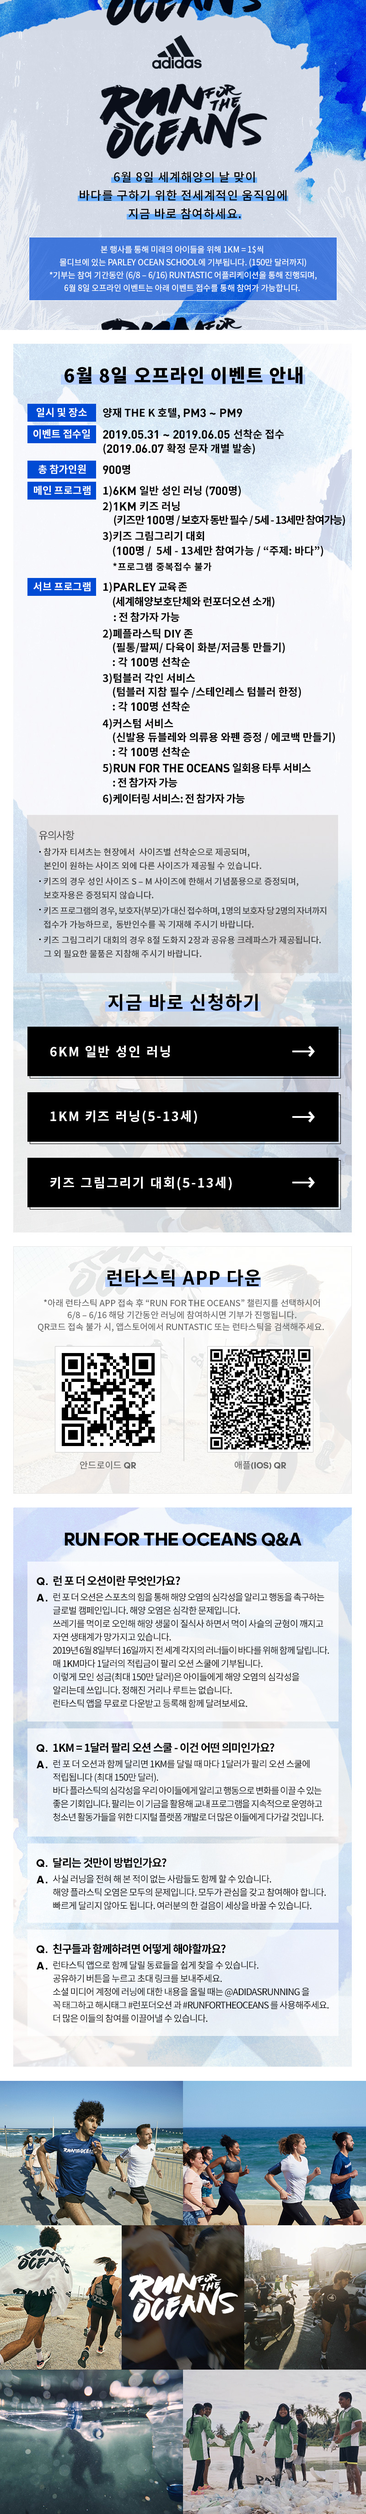
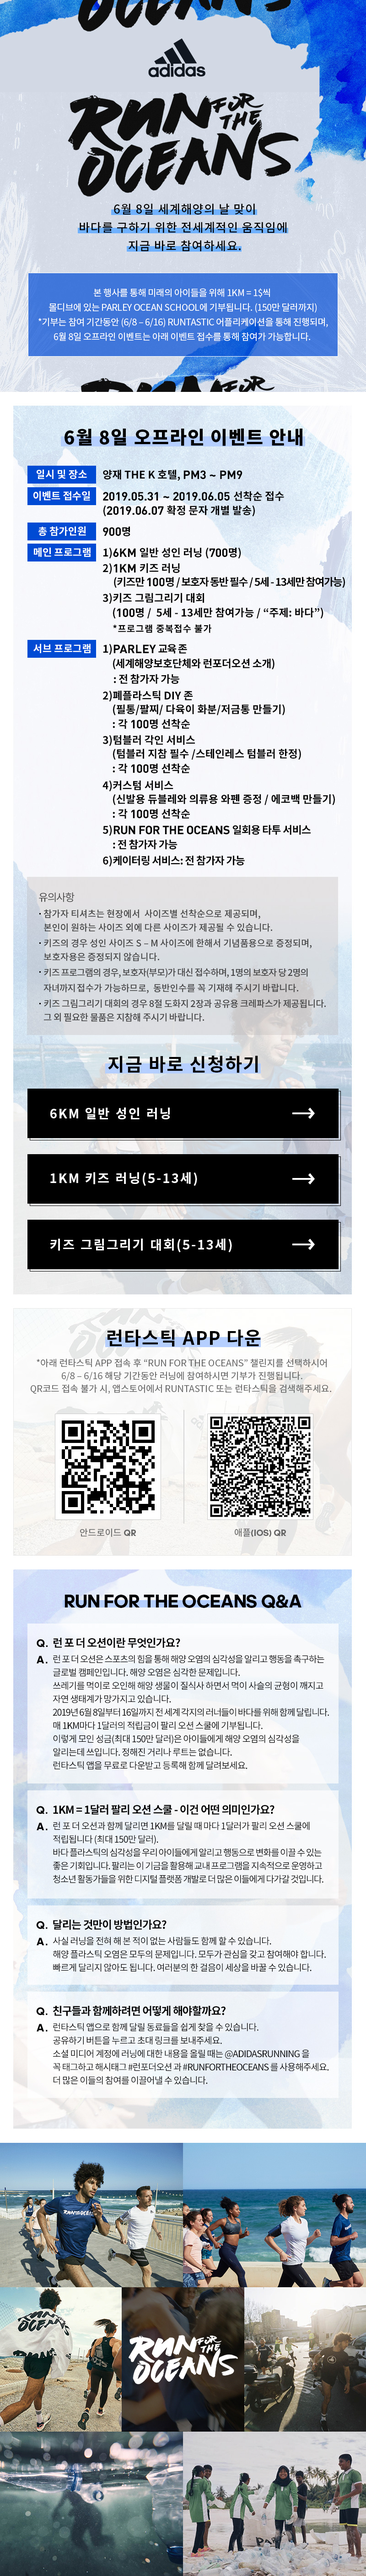
adi_evt_런포더오션

diff --git a/mobile/html/adidas/campaign/190524/index.html b/mobile/html/adidas/campaign/190524/index.html
@@ -447,9 +447,9 @@
                <!-- 작업영역 -->
                <div style="position:relative" class="adiclub_event">
                    <img src="//imagem.adidas.co.kr/html/adidas/campaign/190524/1905_a_RUNFORTHEOCEANS_evt_MO.jpg" alt="" style="width:100%;">
-                   <a href="#" style="position:absolute;top:40.8%;left:0;width:100%;height:53px;display: inline-block;text-indent: -9999px;">6km 일반 성인 러닝</a>
-                   <a href="#" style="position:absolute;top:43.5%;left:0;width:100%;height:53px;display: inline-block;text-indent: -9999px;">1km 키즈 러닝</a>
-                   <a href="#"  style="position:absolute;top:46%;left:0;width:100%;height:53px;display: inline-block; text-indent: -9999px;">키즈 그림 그리기 대회</a>
+                   <a href="#" style="position:absolute;top:42.2%;left:0;width:100%;height:53px;display: inline-block;text-indent: -9999px;">6km 일반 성인 러닝</a>
+                   <a href="#" style="position:absolute;top:44.8%;left:0;width:100%;height:53px;display: inline-block;text-indent: -9999px;">1km 키즈 러닝</a>
+                   <a href="#"  style="position:absolute;top:47.4%;left:0;width:100%;height:53px;display: inline-block; text-indent: -9999px;">키즈 그림 그리기 대회</a>
                </div>
                <!-- 작업영역 끝 -->
 
